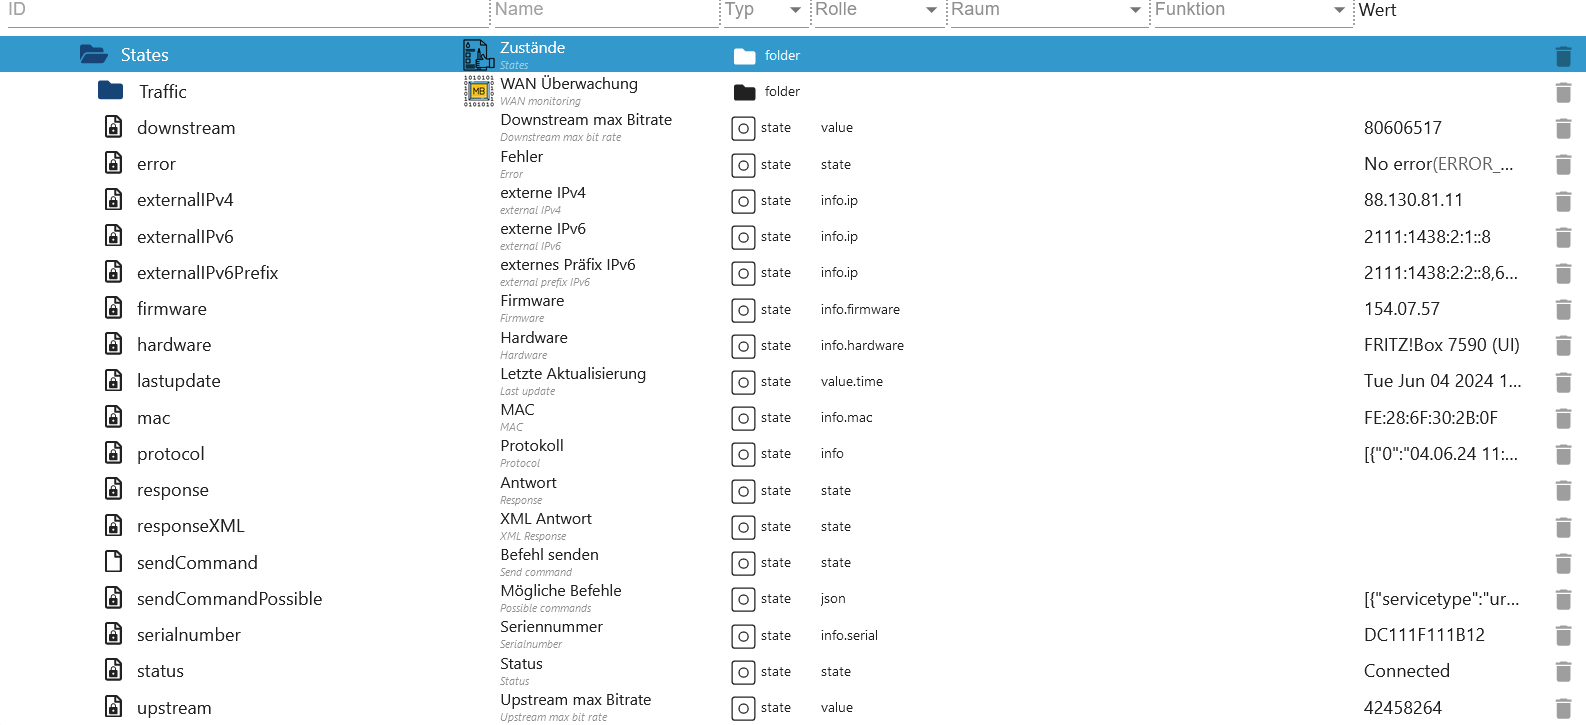
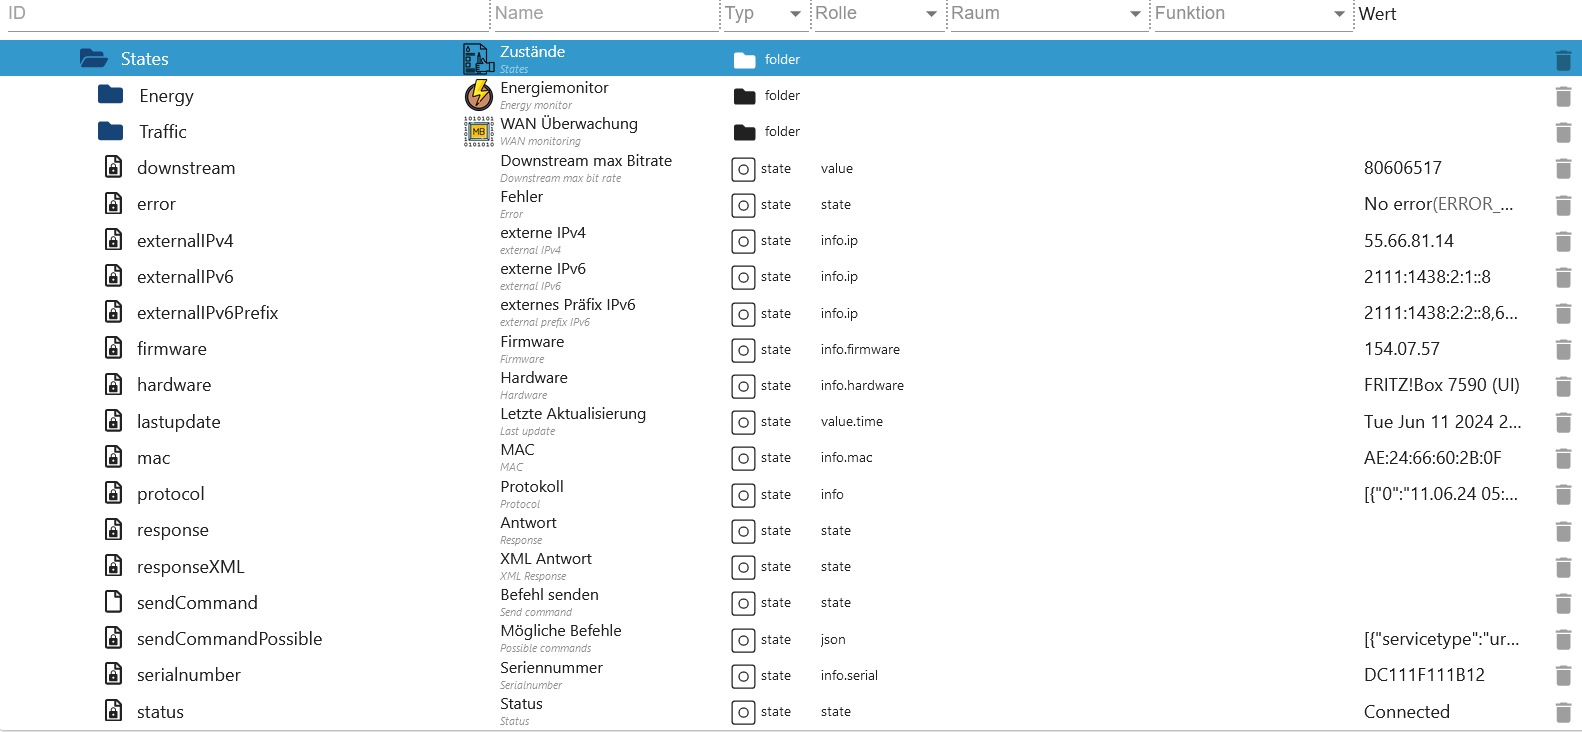
update desc for energy

diff --git a/lib/helper.js b/lib/helper.js
@@ -1148,16 +1148,16 @@ module.exports = {
         common = {
             name: {
                 en: "FRITZ!BOX WiFi - last 24h",
-                de: "FRITZ! BOX WiFi - letzte 24h",
-                ru: "Фритц! BOX WiFi - последний 24h",
-                pt: "FRITZ! BOX WiFi - última 24h",
-                nl: "FRITZ! BOX WiFi - laatste 24 uur",
-                fr: "FRITZ ! BOX WiFi - dernières 24h",
-                it: "FRITZ! BOX WiFi - ultimo 24h",
-                es: "FRITZ! BOX WiFi - última 24h",
-                pl: "FRITZ! BOX WiFi - ostatnie 24 godziny",
-                uk: "ФРІТЗ! BOX WiFi - останні 24h",
-                "zh-cn": "弗里兹! BOX WiFi - 最后24小时",
+                de: "FRITZ!BOX WiFi - letzte 24h",
+                ru: "Фритц!BOX WiFi - последний 24h",
+                pt: "FRITZ!BOX WiFi - última 24h",
+                nl: "FRITZ!BOX WiFi - laatste 24 uur",
+                fr: "FRITZ!BOX WiFi - dernières 24h",
+                it: "FRITZ!BOX WiFi - ultimo 24h",
+                es: "FRITZ!BOX WiFi - última 24h",
+                pl: "FRITZ!BOX WiFi - ostatnie 24 godziny",
+                uk: "ФРІТЗ!BOX WiFi - останні 24h",
+                "zh-cn": "弗里兹!BOX WiFi - 最后24小时",
             },
             type: "number",
             role: "value",
@@ -1217,16 +1217,16 @@ module.exports = {
         common = {
             name: {
                 en: "FRITZ!BOX Fon connections - currently",
-                de: "FRITZ! BOX Fon-Verbindungen - aktuell",
-                ru: "Фритц! BOX Fon-соединения - в настоящее время",
-                pt: "FRITZ! BOX Conexões Fon - atualmente",
-                nl: "FRITZ! KADER Fon verbindingen - momenteel",
-                fr: "FRITZ ! BOITE Connexions Fon - actuellement",
-                it: "FRITZ! BOX Collegamenti Fon - attualmente",
-                es: "FRITZ! BOX Conexiones Fon - actualmente",
-                pl: "FRITZ! PUDEŁKO Połączenia Fon - obecnie",
-                uk: "ФРІТЗ! БОКС З'єднання Fon - в даний час",
-                "zh-cn": "弗里兹! 图标 Fon 连接 - 目前",
+                de: "FRITZ!BOX Fon-Verbindungen - aktuell",
+                ru: "Фритц!BOX Fon-соединения - в настоящее время",
+                pt: "FRITZ!BOX Conexões Fon - atualmente",
+                nl: "FRITZ!KADER Fon verbindingen - momenteel",
+                fr: "FRITZ!BOITE Connexions Fon - actuellement",
+                it: "FRITZ!BOX Collegamenti Fon - attualmente",
+                es: "FRITZ!BOX Conexiones Fon - actualmente",
+                pl: "FRITZ!PUDEŁKO Połączenia Fon - obecnie",
+                uk: "ФРІТЗ!БОКС З'єднання Fon - в даний час",
+                "zh-cn": "弗里兹!图标 Fon 连接 - 目前",
             },
             type: "number",
             role: "value",
@@ -1240,16 +1240,16 @@ module.exports = {
         common = {
             name: {
                 en: "FRITZ!BOX Fon connections - last 24h",
-                de: "FRITZ! BOX Fon-Verbindungen - letzte 24h",
-                ru: "Фритц! BOX Fon - последние 24h",
-                pt: "FRITZ! BOX Conexões Fon - última 24h",
-                nl: "FRITZ! KADER Fon verbindingen - laatste 24 uur",
-                fr: "FRITZ ! BOITE Connexions Fon - dernières 24h",
-                it: "FRITZ! BOX Collegamenti Fon - ultimi 24h",
-                es: "FRITZ! BOX conexiones Fon - última 24h",
-                pl: "FRITZ! PUDEŁKO Połączenia Fon - ostatnie 24 godziny",
-                uk: "ФРІТЗ! БОКС З'єднання Fon - останні 24h",
-                "zh-cn": "弗里兹! 图标 Fon连接 - 最后24小时",
+                de: "FRITZ!BOX Fon-Verbindungen - letzte 24h",
+                ru: "Фритц!BOX Fon - последние 24h",
+                pt: "FRITZ!BOX Conexões Fon - última 24h",
+                nl: "FRITZ!KADER Fon verbindingen - laatste 24 uur",
+                fr: "FRITZ!BOITE Connexions Fon - dernières 24h",
+                it: "FRITZ!BOX Collegamenti Fon - ultimi 24h",
+                es: "FRITZ!BOX conexiones Fon - última 24h",
+                pl: "FRITZ!PUDEŁKO Połączenia Fon - ostatnie 24 godziny",
+                uk: "ФРІТЗ!БОКС З'єднання Fon - останні 24h",
+                "zh-cn": "弗里兹!图标 Fon连接 - 最后24小时",
             },
             type: "number",
             role: "value",

diff --git a/docs/de/README.md b/docs/de/README.md
@@ -920,6 +920,34 @@
 
 ![tr-064_states_3.png](img/tr-064_states_3.png)
 
+# Energy Monitoring
+
+-   `States.Energy.conn_currently` Verbindung aktuell
+-   `States.Energy.conn_last24h` Verbindung der letzten 24 Stunden
+-   `States.Energy.cpu_temperature` CPU Temperatur für echart
+-   `States.Energy.cpu_usage` CPU Last für echart
+-   `States.Energy.cpu_usage_scale` Skalierung (Stunden) für CPU Last und Temperatur für echart
+-   `States.Energy.fon_currently` Fon Anschlüsse aktuell
+-   `States.Energy.fon_last24h` Fon Anschlüsse der letzten 24 Stunden
+-   `States.Energy.lan1` Lan 1 aktiv/deaktiv
+-   `States.Energy.lan2` Lan 2 aktiv/deaktiv
+-   `States.Energy.lan3` Lan 3 aktiv/deaktiv
+-   `States.Energy.lan4` Lan 4 aktiv/deaktiv
+-   `States.Energy.main_currently` Hauptprozessor aktuell
+-   `States.Energy.main_last24h` Hauptprozessor der letzten 24 Stunden
+-   `States.Energy.ram_usage` RAM-Nutzung für echart
+-   `States.Energy.ram_usage_scale` Skalierung (Stunden) RAM-Nutzung für echart
+-   `States.Energy.total_currently` Gesamt aktuell
+-   `States.Energy.total_last24h` Gesamt der letzten 24 Stunden
+-   `States.Energy.usb_currently` USB-Geräte aktuell
+-   `States.Energy.usb_last24h` USB-Geräte der letzten 24 Stunden
+-   `States.Energy.wan` WAN aktiv/deaktiv
+-   `States.Energy.wifi_currently` WLAN aktuell
+-   `States.Energy.wifi_last24h` WLAN der letzten 24 Stunden
+
+![tr-064_states_4.png](img/tr-064_states_4.png)</br>
+![tr-064_states_5.png](img/tr-064_states_5.png)
+
 ### Blockly
 
 [Zusammenfassung](#zusammenfassung)

diff --git a/docs/en/README.md b/docs/en/README.md
@@ -923,6 +923,34 @@
 
 ![tr-064_states_3.png](img/tr-064_states_3.png)
 
+# Energy Monitoring
+
+-   `States.Energy.conn_currently` Current connection
+-   `States.Energy.conn_last24h` Connection of the last 24 hours
+-   `States.Energy.cpu_temperature` CPU temperature for echart
+-   `States.Energy.cpu_usage` CPU load for echart
+-   `States.Energy.cpu_usage_scale` Scaling (hours) for CPU load and temperature for echart
+-   `States.Energy.fon_currently` Current phone connections
+-   `States.Energy.fon_last24h` Phone connections of the last 24 hours
+-   `States.Energy.lan1` Lan 1 active/inactive
+-   `States.Energy.lan2` Lan 2 active/inactive
+-   `States.Energy.lan3` Lan 3 active/inactive
+-   `States.Energy.lan4` Lan 4 active/inactive
+-   `States.Energy.main_currently` Main processor current
+-   `States.Energy.main_last24h` Main processor of the last 24 hours
+-   `States.Energy.ram_usage` RAM usage for echart
+-   `States.Energy.ram_usage_scale` Scaling (hours) RAM usage for echart
+-   `States.Energy.total_currently` Total current
+-   `States.Energy.total_last24h` Total of the last 24 hours
+-   `States.Energy.usb_currently` USB devices current
+-   `States.Energy.usb_last24h` USB devices of the last 24 hours
+-   `States.Energy.wan` WAN active/inactive
+-   `States.Energy.wifi_currently` WLAN current
+-   `States.Energy.wifi_last24h` WLAN of the last 24 hours
+
+![tr-064_states_4.png](img/tr-064_states_4.png)</br>
+![tr-064_states_5.png](img/tr-064_states_5.png)
+
 ### Blockly
 
 [Summary](#summary)
